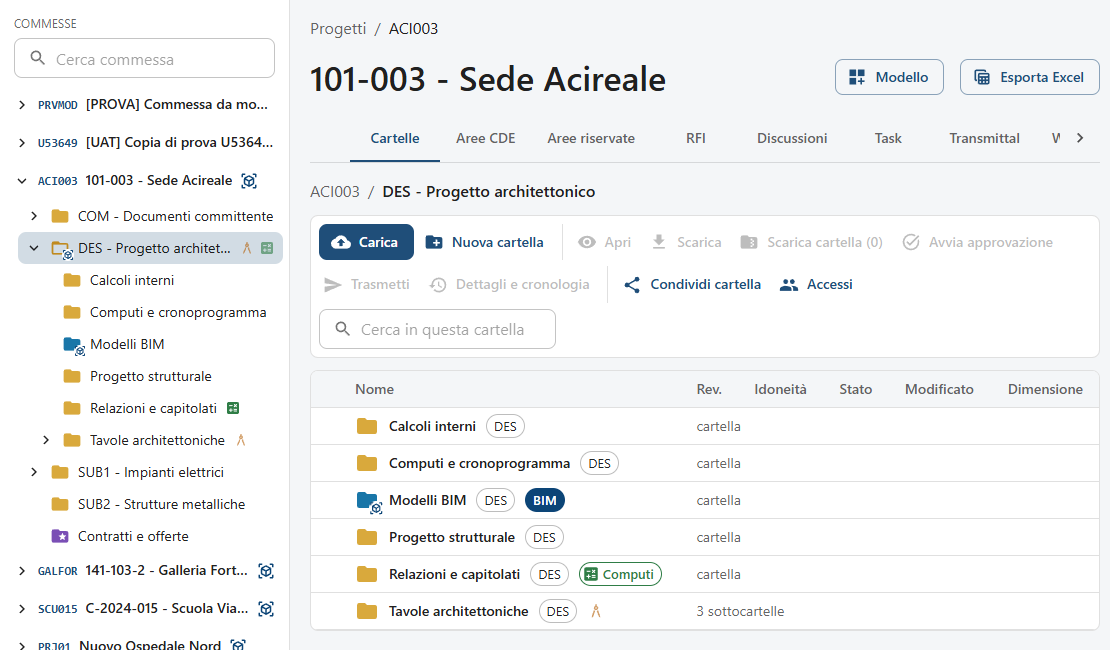
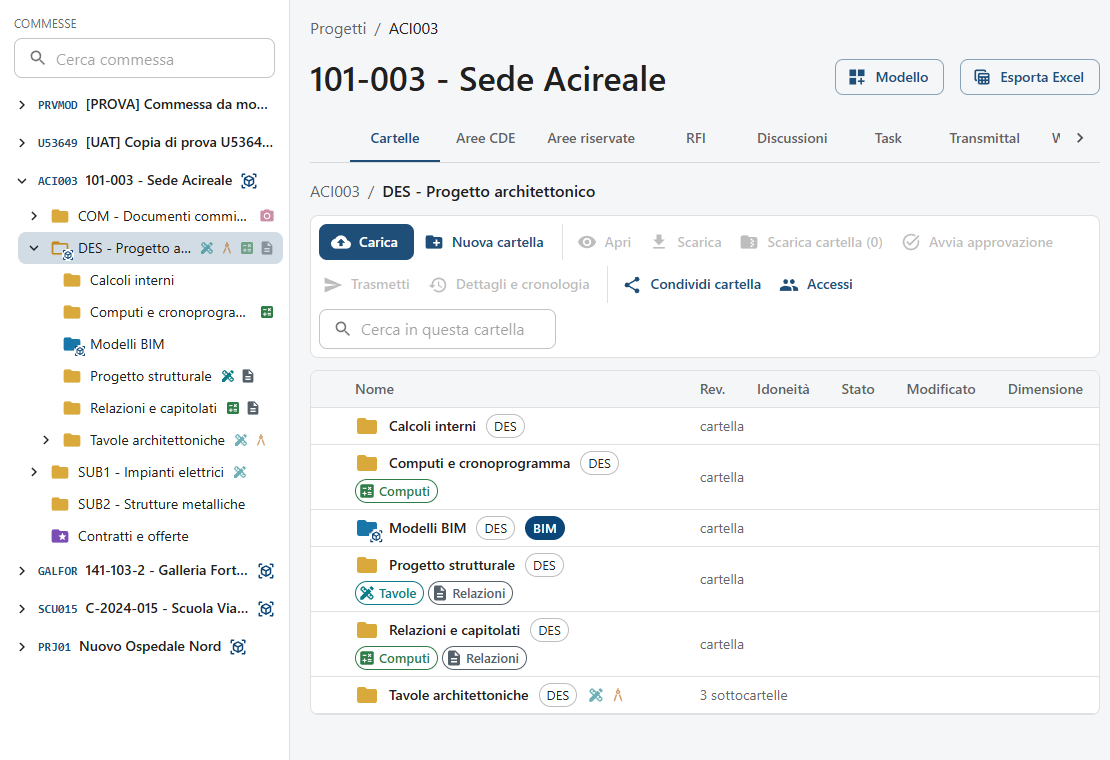
docs(skytower): guida, segni di tavole e foto e regola dei PDF codificati
Capitolo 2, «Riconoscere le cartelle dal contenuto»: la tabella dei segni ha ora
cinque righe (tavole, CAD, computi, relazioni, foto) con la colonna «Si riconosce
da», e un paragrafo spiega che per i PDF conta il tipo documento del nome
codificato (DR = tavola, RP = relazione, BQ = computo). Immagine rifatta.

diff --git a/skytower/docs/guida/02-commesse-e-cartelle.md b/skytower/docs/guida/02-commesse-e-cartelle.md
@@ -77,7 +77,7 @@ lo apre nel visualizzatore in una nuova scheda del browser.
 Scrivi il **Nome** e premi **Crea**. La spunta **Eredita le condivisioni della cartella padre** (attiva di norma)
 fa vedere la nuova cartella a chi vede già quella superiore; toglila per una sottocartella più chiusa.
 
-### Riconoscere le cartelle dal contenuto (BIM, CAD, computi, relazioni)
+### Riconoscere le cartelle dal contenuto (BIM, tavole, CAD, computi, relazioni, foto)
 
 Dal 26/11/2026 le cartelle dicono a colpo d'occhio che cosa contengono, in ogni commessa, sia
 nell'albero a sinistra sia nell'elenco della cartella.
@@ -95,21 +95,27 @@ nell'albero a sinistra sia nell'elenco della cartella.
 
 **Altri contenuti**, con un'icona accanto al nome della cartella:
 
-| Segno | Colore | Che cosa contiene | Formati |
-|-------|--------|-------------------|---------|
+| Segno | Colore | Che cosa contiene | Si riconosce da |
+|-------|--------|-------------------|-----------------|
+| matita e righello | verde acqua | tavole | PDF con tipo documento `DR` o `SK` nel nome |
 | compasso | arancio | disegni CAD | `.dwg`, `.dxf`, `.dwf`, `.dgn` |
-| calcolatrice | verde | computi e fogli di calcolo | `.xls`, `.xlsx`, `.xlsm`, `.ods`, `.csv`, `.dcf`, `.pwe`, `.xpwe` |
-| foglio | grigio | relazioni e documenti di testo | `.doc`, `.docx`, `.odt`, `.rtf` |
+| calcolatrice | verde | computi e fogli di calcolo | `.xls`, `.xlsx`, `.xlsm`, `.ods`, `.csv`, `.dcf`, `.pwe`, `.xpwe`; PDF con tipo `BQ`, `CP` o `SH` |
+| foglio | grigio | relazioni e documenti di testo | `.doc`, `.docx`, `.odt`, `.rtf`; PDF con tipo `RP`, `SP`, `MS` o `CA` |
+| macchina fotografica | rosa scuro | foto e immagini | `.jpg`, `.jpeg`, `.png`, `.heic`, `.webp` |
 
 L'icona a colore pieno dice che i file stanno in quella cartella (nell'elenco diventa un'etichetta con
-il nome: **CAD**, **Computi**, **Relazioni**); l'icona più chiara dice che stanno in una sottocartella.
-Passando sopra a un segno compare la spiegazione.
+il nome: **Tavole**, **CAD**, **Computi**, **Relazioni**, **Foto**); l'icona più chiara dice che stanno
+in una sottocartella. Passando sopra a un segno compare la spiegazione.
+
+**I PDF e la codifica dei nomi.** Un PDF da solo non dice se è una tavola o una relazione, quindi per
+i PDF conta il **tipo documento** scritto nel nome codificato: in `PRJ01-DES-ZZ-01-DR-A-0001.pdf` è
+`DR`, cioè una tavola. Un PDF caricato in una cartella senza codifica, o con un tipo diverso da quelli
+in tabella, non fa comparire nessun segno. Vale anche per i PDF firmati `.pdf.p7m`.
 
 Da sapere:
 
 - conta come modello un file `.ifc`, `.ifczip`, `.ifcxml`, `.rvt`, `.rfa`, `.nwd`, `.nwc`, `.nwf` e i
   modelli 3D `.glb` e `.gltf` (quelli esportati da Blender);
-- i **PDF non hanno un segno**: stanno in quasi tutte le cartelle e non aiuterebbero a distinguerle;
 - i documenti archiviati non contano: archiviato l'ultimo file di un tipo, il segno sparisce dalla
   cartella e da quelle sopra;
 - un'area riservata tiene la sua icona (il lucchetto o la cartella viola) e non porta segni;
